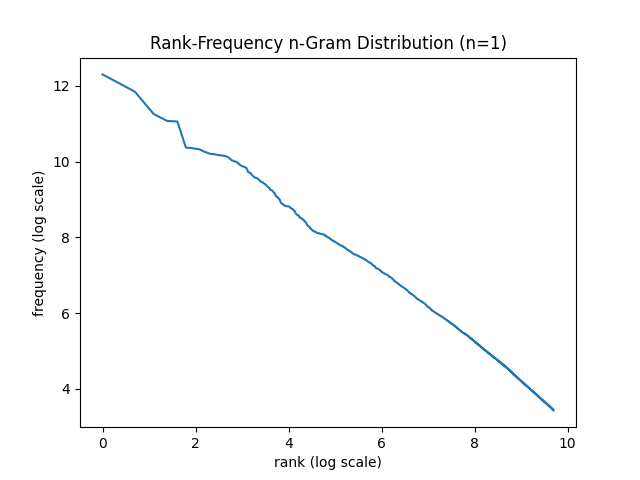
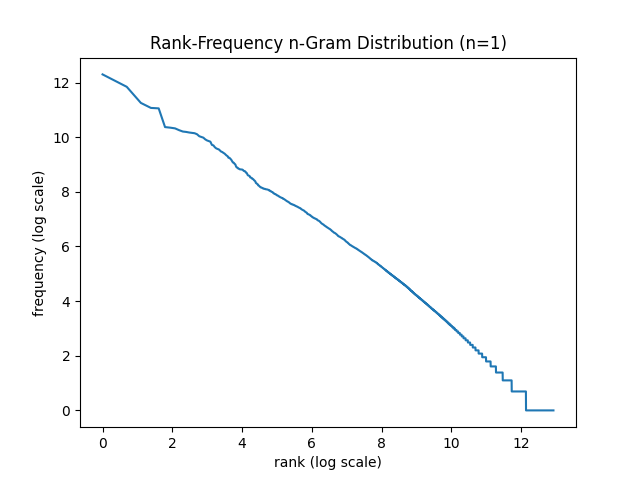
add full plots

diff --git a/zipf.py b/zipf.py
@@ -46,7 +46,7 @@ def count_ngrams(text, n):
 
 
 # Plot the rank of a word against its frequency
-def plot_rank_freq(freq_dict, n, filename):
+def plot_rank_freq(freq_dict, n, filename, shortened=False):
     rank_list = [(word, freq_dict[word]) for word in freq_dict.keys()]
     rank_list = list(map(lambda term: (term[0], math.log(term[1])), rank_list))
     rank_list.sort(reverse=True, key=lambda term: term[1])
@@ -54,12 +54,15 @@ def plot_rank_freq(freq_dict, n, filename):
     ranks = [math.log(i+1) for i in range(len(rank_list))]
     print(min(ranks), max(ranks))
 
-    upper_bound = max(ranks)*0.75
-    cutoff = 0
-    for rank in ranks:
-        if rank >= upper_bound:
-            break
-        cutoff += 1
+    if shortened:
+        upper_bound = max(ranks)*0.75
+        cutoff = 0
+        for rank in ranks:
+            if rank >= upper_bound:
+                break
+            cutoff += 1
+    else:
+        cutoff = len(ranks)
 
     ranks = ranks[:cutoff]
     print(min(ranks), max(ranks))
@@ -73,7 +76,7 @@ def plot_rank_freq(freq_dict, n, filename):
     plt.ylabel('frequency (log scale)')
     plt.savefig(filename)
 
-def run_linear_reg(freq_dict,n,filename):
+def run_linear_reg(freq_dict,n,filename, shortened=False):
     rank_list = [(word, freq_dict[word]) for word in freq_dict.keys()]
     rank_list = list(map(lambda term: (term[0], math.log(term[1])), rank_list))
     rank_list.sort(reverse=True, key=lambda term: term[1])
@@ -87,12 +90,15 @@ def run_linear_reg(freq_dict,n,filename):
     X = df['rank'].values.reshape(-1, 1)  # values converts it into a numpy array
     Y = df['frequency'].values.reshape(-1, 1)
 
-    upper_bound = max(X)*0.75
-    cutoff = 0
-    for rank in X:
-        if rank >= upper_bound:
-            break
-        cutoff += 1
+    if shortened:
+        upper_bound = max(X)*0.75
+        cutoff = 0
+        for rank in X:
+            if rank >= upper_bound:
+                break
+            cutoff += 1
+    else:
+        cutoff = len(X)
 
     X = X[:cutoff]
     print(X[-1])
